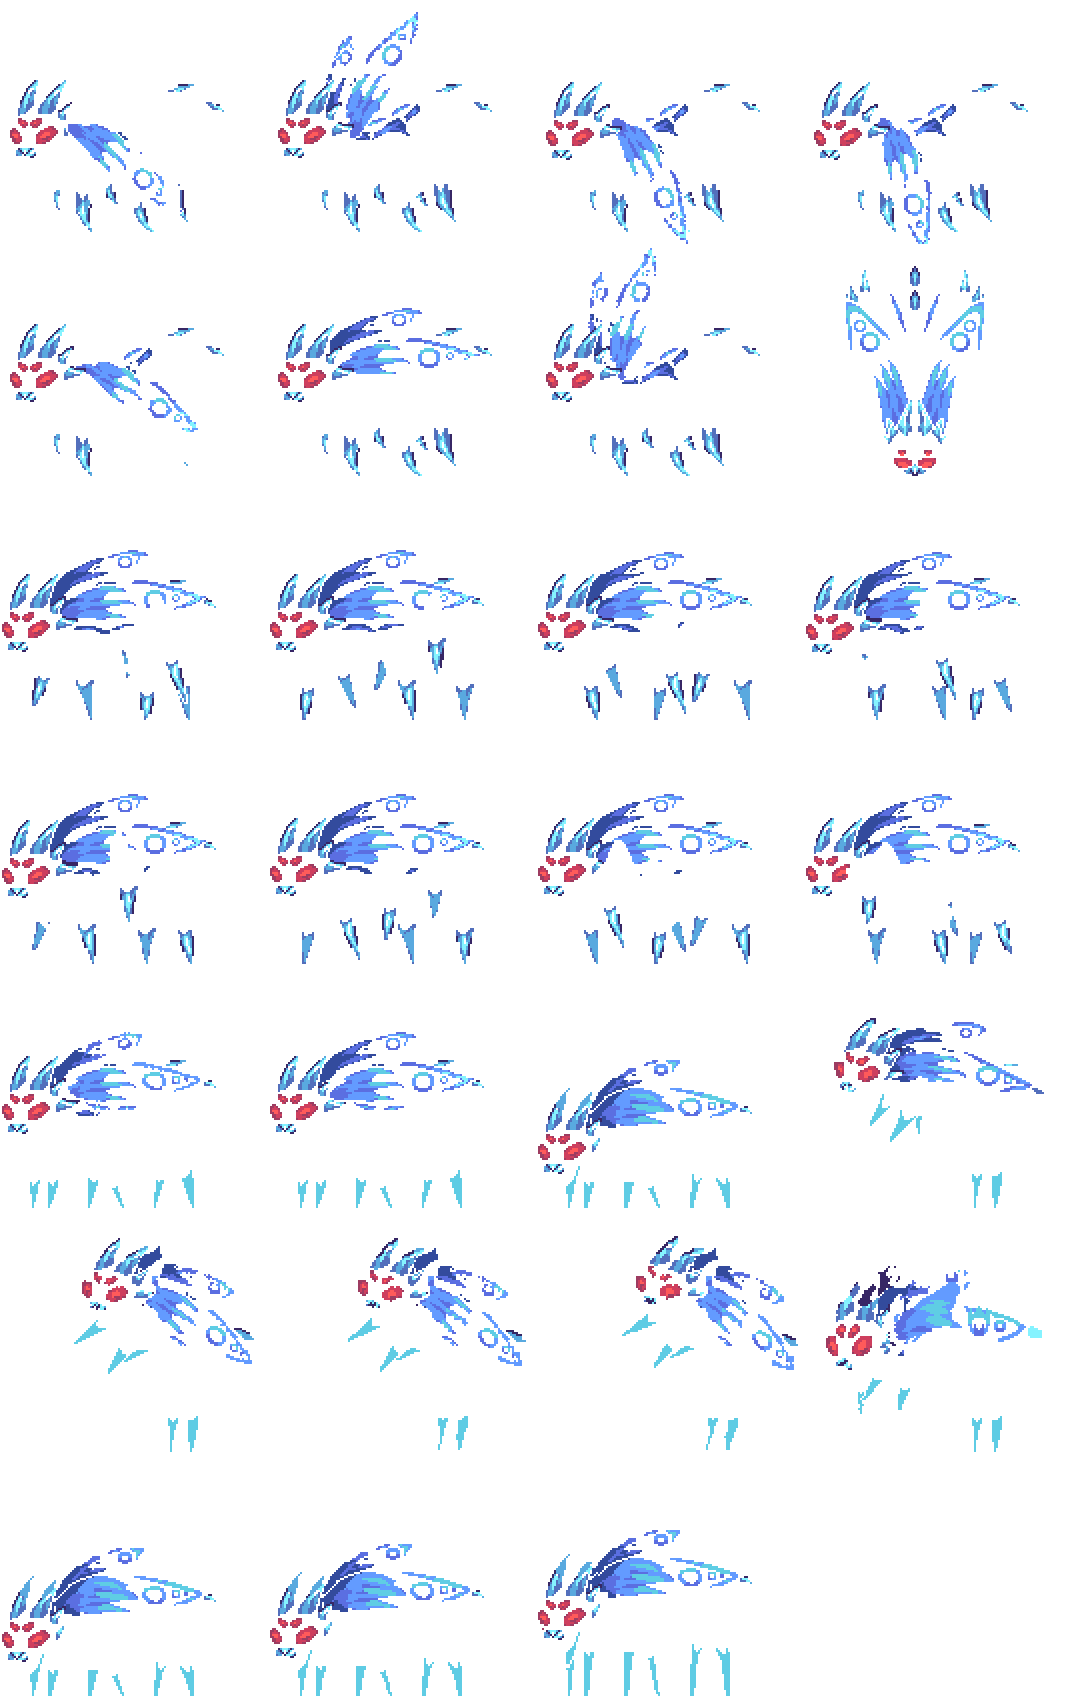
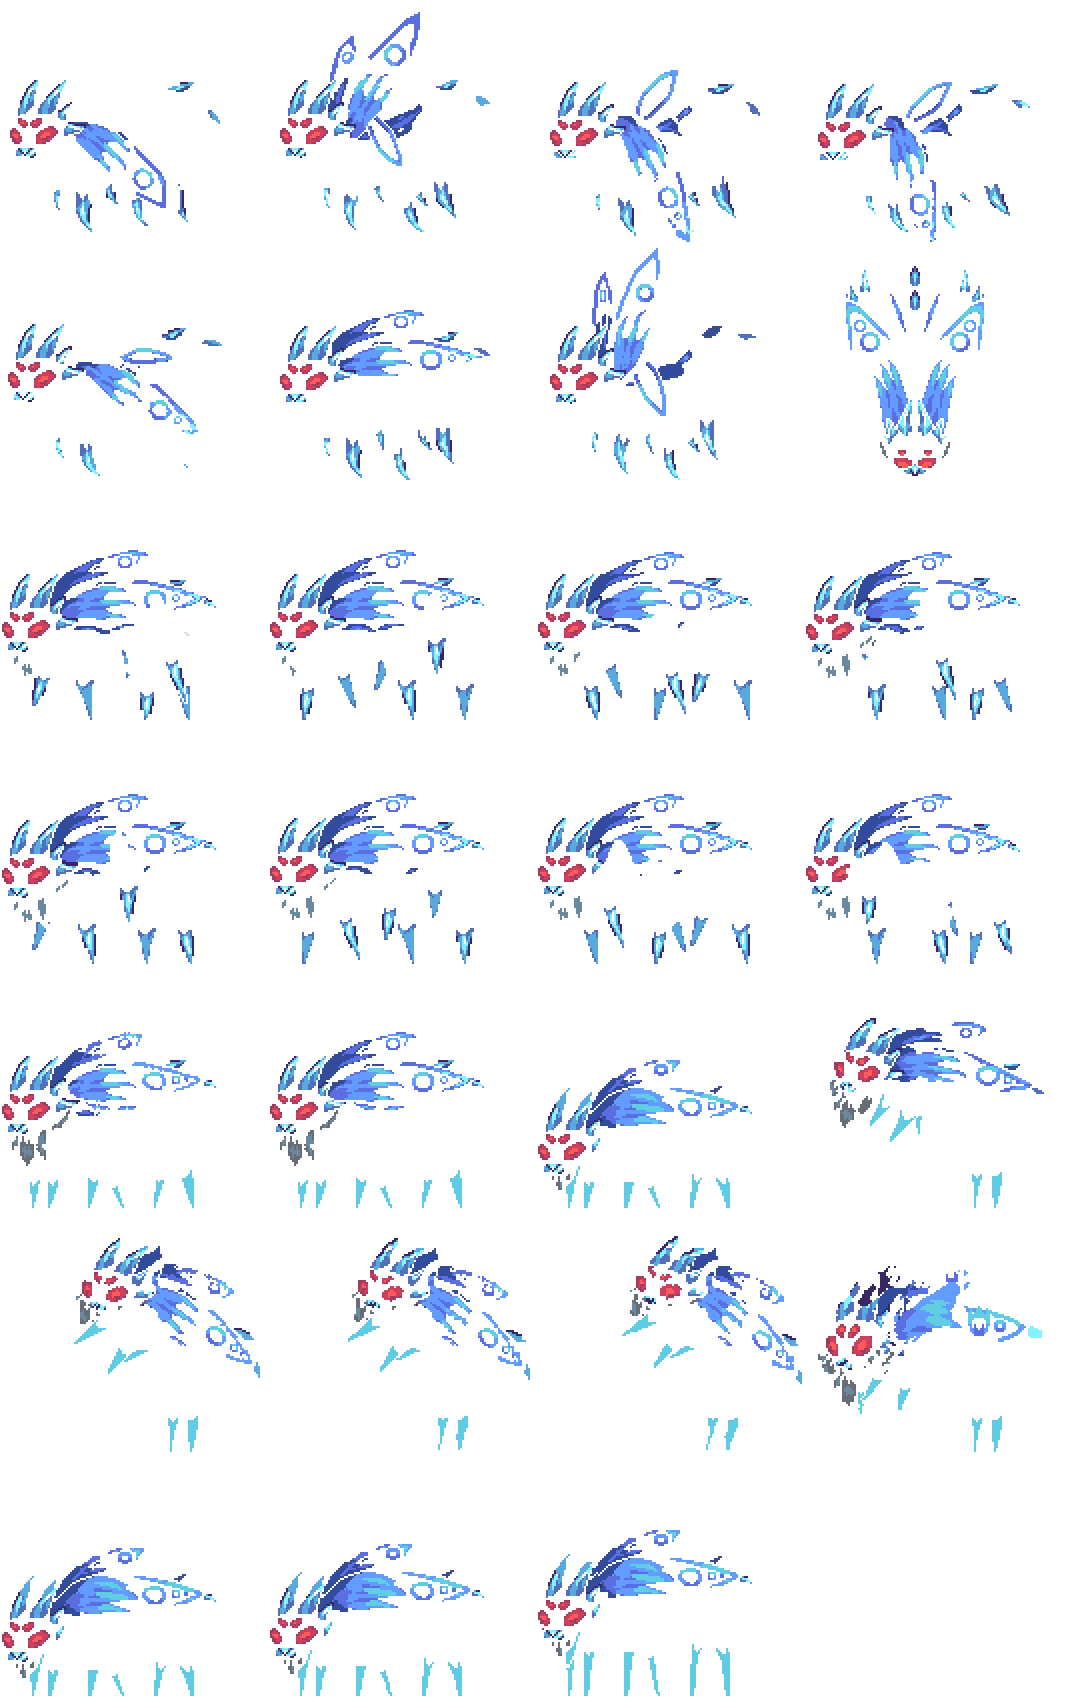
The Beacon + resprites

diff --git a/Content/Items/Weapons/Magic/TheBeacon.cs b/Content/Items/Weapons/Magic/TheBeacon.cs
@@ -1,4 +1,3 @@
-using AerovelenceMod.Content.Items.Others.Crafting;
 using Microsoft.Xna.Framework;
 using System;
 using Terraria;
@@ -7,12 +6,12 @@ using Terraria.ModLoader;
 
 namespace AerovelenceMod.Content.Items.Weapons.Magic
 {
-    public class TheLaserPointer : ModItem
+    public class TheBeacon : ModItem
     {
         public override void SetStaticDefaults()
         {
-            DisplayName.SetDefault("The Laser Pointer");
-            Tooltip.SetDefault("Fires quick beams of LASERS\n'Have you tried playing with a cat?'");
+            DisplayName.SetDefault("The Beacon");
+            Tooltip.SetDefault("Fires beams of fire\n'Solar Powered'");
             Item.staff[item.type] = true;
         }
         public override void SetDefaults()
@@ -25,8 +24,8 @@ namespace AerovelenceMod.Content.Items.Weapons.Magic
             item.width = 70;
             item.height = 38;
             item.damage = 45;
-            item.shoot = mod.ProjectileType("TheLaserPointerProj");
-            item.rare = ItemRarityID.LightPurple;
+            item.shoot = mod.ProjectileType("TheBeaconProj");
+            item.rare = ItemRarityID.Red;
             item.value = Item.sellPrice(0, 10, 0, 0);
             item.noMelee = true;
             item.noUseGraphic = true;
@@ -37,16 +36,16 @@ namespace AerovelenceMod.Content.Items.Weapons.Magic
         public override void AddRecipes()
         {
             ModRecipe modRecipe = new ModRecipe(mod);
-            modRecipe.AddIngredient(ItemID.SoulofLight, 15);
-            modRecipe.AddIngredient(ModContent.ItemType<TheFlashlight>(), 1);
-            modRecipe.AddIngredient(ItemID.HallowedBar, 10);
-            modRecipe.AddTile(TileID.MythrilAnvil);
+            modRecipe.AddIngredient(ItemID.FragmentSolar, 20);
+            modRecipe.AddIngredient(ModContent.ItemType<TheLaserPointer>(), 1);
+            modRecipe.AddIngredient(ItemID.LunarBar, 10);
+            modRecipe.AddTile(TileID.LunarCraftingStation);
             modRecipe.SetResult(this, 1);
             modRecipe.AddRecipe();
         }
     }
 
-    class LaserPointerProjectile : ModProjectile
+    class TheBeaconProjectile : ModProjectile
     {
         public override void SetDefaults()
         {
@@ -77,7 +76,7 @@ namespace AerovelenceMod.Content.Items.Weapons.Magic
                     Vector2 projectilePosition = projectile.position;
                     projectilePosition -= projectile.velocity * ((float)i * 0.25f);
                     projectile.alpha = 255;
-                    int dust = Dust.NewDust(projectilePosition, 1, 1, 60, 0f, 0f, 0, default, 1f);
+                    int dust = Dust.NewDust(projectilePosition, 1, 1, 159, 0f, 0f, 0, default, 1f);
                     Main.dust[dust].noGravity = true;
                     Main.dust[dust].position = projectilePosition;
                     Main.dust[dust].scale = (float)Main.rand.Next(70, 110) * 0.013f;
@@ -89,14 +88,14 @@ namespace AerovelenceMod.Content.Items.Weapons.Magic
 }
 namespace AerovelenceMod.Content.Items.Weapons.Magic
 {
-    public class TheLaserPointerProj : ModProjectile
+    public class TheBeaconProj : ModProjectile
     {
         public int Timer;
         public float shootSpeed = 0.5f;
 
         public override void SetStaticDefaults()
         {
-            DisplayName.SetDefault("The Laser Pointer");
+            DisplayName.SetDefault("The Beacon");
             Main.projFrames[projectile.type] = 6;
         }
 
@@ -195,17 +194,23 @@ namespace AerovelenceMod.Content.Items.Weapons.Magic
                         projectile.velocity = velocity;
                         float scaleFactor = 14f;
                         int num8 = 2;
-                        int FlashlightProj = ModContent.ProjectileType<LaserPointerProjectile>();
+                        int FlashlightProj = ModContent.ProjectileType<TheBeaconProjectile>();
                         for (int j = 0; j < 1; j++)
                         {
                             value2 = projectile.Center + new Vector2(Main.rand.Next(-num8, num8 + 1), Main.rand.Next(-num8, num8 + 1));
                             Vector2 spinningpoint2 = Vector2.Normalize(projectile.velocity) * scaleFactor;
+                            Vector2 spinningpoint3 = Vector2.Normalize(projectile.velocity) * scaleFactor;
+                            Vector2 spinningpoint4 = Vector2.Normalize(projectile.velocity) * scaleFactor;
                             spinningpoint2 = spinningpoint2.RotatedBy(Main.rand.NextDouble() * 0.00004954631328583 - 0.000004773156642914);
+                            spinningpoint3 = spinningpoint3.RotatedBy(Main.rand.NextDouble() * 0.1344954631328583 - 0.091234773156642914);
+                            spinningpoint4 = spinningpoint4.RotatedBy(Main.rand.NextDouble() * 0.18914954631328583 - 0.095674773156642914);
                             if (float.IsNaN(spinningpoint2.X) || float.IsNaN(spinningpoint2.Y))
                             {
                                 spinningpoint2 = -Vector2.UnitY;
                             }
                             Projectile.NewProjectile(value2.X, value2.Y, spinningpoint2.X, spinningpoint2.Y, FlashlightProj, projectile.damage, projectile.knockBack, projectile.owner);
+                            Projectile.NewProjectile(value2.X, value2.Y, spinningpoint3.X, spinningpoint3.Y, FlashlightProj, projectile.damage, projectile.knockBack, projectile.owner);
+                            Projectile.NewProjectile(value2.X, value2.Y, spinningpoint4.X, spinningpoint4.Y, FlashlightProj, projectile.damage, projectile.knockBack, projectile.owner);
                         }
                     }
                     else

diff --git a/Content/Items/Weapons/Summoning/OmegaFireCrystalCore.cs b/Content/Items/Weapons/Summoning/OmegaFireCrystalCore.cs
@@ -1,5 +1,6 @@
 #region Using directives
 
+using AerovelenceMod.Content.Items.Others.Crafting;
 using Terraria;
 using Terraria.ID;
 using Terraria.ModLoader;
@@ -37,7 +38,7 @@ namespace AerovelenceMod.Content.Items.Weapons.Summoning
 		public override void AddRecipes()
 		{
 			ModRecipe modRecipe = new ModRecipe(mod);
-			modRecipe.AddIngredient(ItemID.SoulofNight, 15);
+			modRecipe.AddIngredient(ModContent.ItemType<EmberFragment>(), 15);
 			modRecipe.AddIngredient(ModContent.ItemType<ShiningCrystalCore>(), 1);
 			modRecipe.AddRecipeGroup("AerovelenceMod:CobaltBars", 15);
 			modRecipe.SetResult(this, 1);
